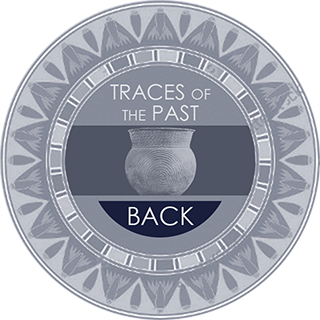
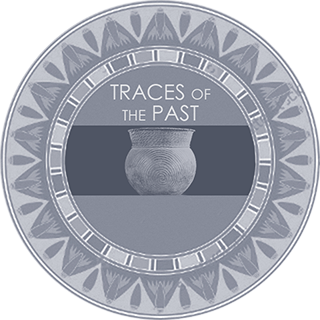
v.45 now add anchorlinks and uses them as well

Changed region(s): [[0.3125, 0.625, 0.6875, 0.75]]

diff --git a/js/_versions/canvasser_v0.4.js b/js/_versions/canvasser_v0.4.js
@@ -1,4 +1,4 @@
-// Canvasser v0.45 rubengarzajr@gmail.com
+// Canvasser v0.4 rubengarzajr@gmail.com
 
 function initCanvasser(vari, datafile, dataForm){
     window[vari] = new canvasser(vari, datafile, dataForm);
@@ -14,8 +14,8 @@ function canvasser(vari, interactiveData, dataForm){
 
     function requestJSON(fileNamePath, returnFunction){
         var xhr = new XMLHttpRequest();
-        xhr.onreadystatechange = function(){
-            if (xhr.readyState == 4){
+        xhr.onreadystatechange = function() {
+            if (xhr.readyState == 4) {
                 returnFunction(JSON.parse(xhr.responseText));
             }
             if (xhr.status == 404) console.error("JSON File Load Error: " + xhr.statusText + " " + xhr.readyState);
@@ -46,7 +46,7 @@ function canvasser(vari, interactiveData, dataForm){
         }
         act.data.images.forEach(function(image){
             var imageObj = new Image();
-            imageObj.onload = function(){
+            imageObj.onload = function() {
                 act.imageList[image.id] = {};
                 act.imageList[image.id].imageData = this;
                 act.imageList[image.id].canvas = document.createElement('canvas');
@@ -73,8 +73,6 @@ function canvasser(vari, interactiveData, dataForm){
                 element.addEventListener("click", function(){window[vari].external(JSON.parse(element.getAttribute('data-canvasser-command')))});
             });
         }
-        if (window.location.hash !== "") window[vari].external([{"command":"selectonly", "item":window.location.hash.substring(1)}]);
-
         loop();
     }
 
@@ -142,7 +140,7 @@ function canvasser(vari, interactiveData, dataForm){
                             p.rotation += p.speed.rotation;
                             act.context.save();
                             act.context.translate(pos.x, pos.y);
-                            act.context.globalCompositeOperation = 'source-over';   // overlay source-over destination-over source-in destination-in source-out destination-out source-atop destination-atop lighter xor copy
+                            act.context.globalCompositeOperation = 'source-over';   // overlay source-over destination-over source-in destination-in source-out destination-out source-atop destination-atop lighter xor copy 
                             act.context.globalAlpha =  alpha;
                             act.context.rotate(p.rotation);
                             act.context.drawImage(act.imageList[pSystem.info.image].imageData, -imgDim.x*scale, -imgDim.y*scale, act.imageList[pSystem.info.image].imageData.naturalWidth*scale, act.imageList[pSystem.info.image].imageData.naturalHeight*scale);
@@ -180,6 +178,8 @@ function canvasser(vari, interactiveData, dataForm){
                 act.canvas.style.cursor = "move";
             }
             actions();
+            if (act.mode === "click") document.body.style.cursor.cursor = "default";
+            if (act.mode === "drag")  document.body.style.cursor.cursor = "move";
         }
         else{
             act.canvas.style.cursor = "default";
@@ -188,7 +188,6 @@ function canvasser(vari, interactiveData, dataForm){
         if (!act.external) act.applyAction = [];
 
         act.data.objects.forEach(function(obj){
-
             if (obj.parent !== undefined){
                 if (obj.parent.object === undefined){
                     act.data.objects.forEach(function(parent){
@@ -450,7 +449,6 @@ function canvasser(vari, interactiveData, dataForm){
                     var source = document.getElementById(action.source);
                     if (target !== undefined && source !== undefined && target !== null && source !== null){
                         target.innerHTML = source.innerHTML;
-                        window.location.hash = over.name;
                     }
                 }
                 if (action.type === 'destposition'){
@@ -559,9 +557,6 @@ function canvasser(vari, interactiveData, dataForm){
                             act.dragging = obj;
                         }
                     });
-                }
-                if (action.type === "slideover"){
-                    console.log("slideOver");
                 }
                 if (action.type === 'url'){
                     var target = document.getElementById(action.target);

diff --git a/index.php b/index.php
@@ -19,7 +19,7 @@
         <a href="activities/eyesofexplorer.php">Eyes of the Explorer Navigation</a><br>
         <a href="activities/poppuzzle.php">Population Puzzlers</a><br>
         <a href="activities/prehistoric_map.php">Prehistoric Map</a><br>
-        <a href="activities/map_coastal.php">Prehistoric Map: Coastal</a><br>
+        <a href="activities/map_coastal.php#lls10">Prehistoric Map: Coastal</a><br>
         <a href="activities/map_plains.php">Prehistoric Map: Plains</a><br>
         <a href="activities/map_plateaus.php">Prehistoric Map: Plateaus & Canyonlands</a><br>
         <a href="activities/map_transpecos.php">Prehistoric Map: Trans Pecos</a><br>

diff --git a/activities/columbus.php b/activities/columbus.php
@@ -1,0 +1,12 @@
+<?php
+?>
+<html>
+    <head>
+        <title>Canvasser</title>
+    </head>
+    <body onload='initCanvasser("interactive","../data/columbus.json", "file");'>
+        <?php include 'activityheader.php';?>
+        <div class="title_a">Bonfire</div>
+        <div id='canvasholder' style="float:left"></div>
+    </body>
+</html>
